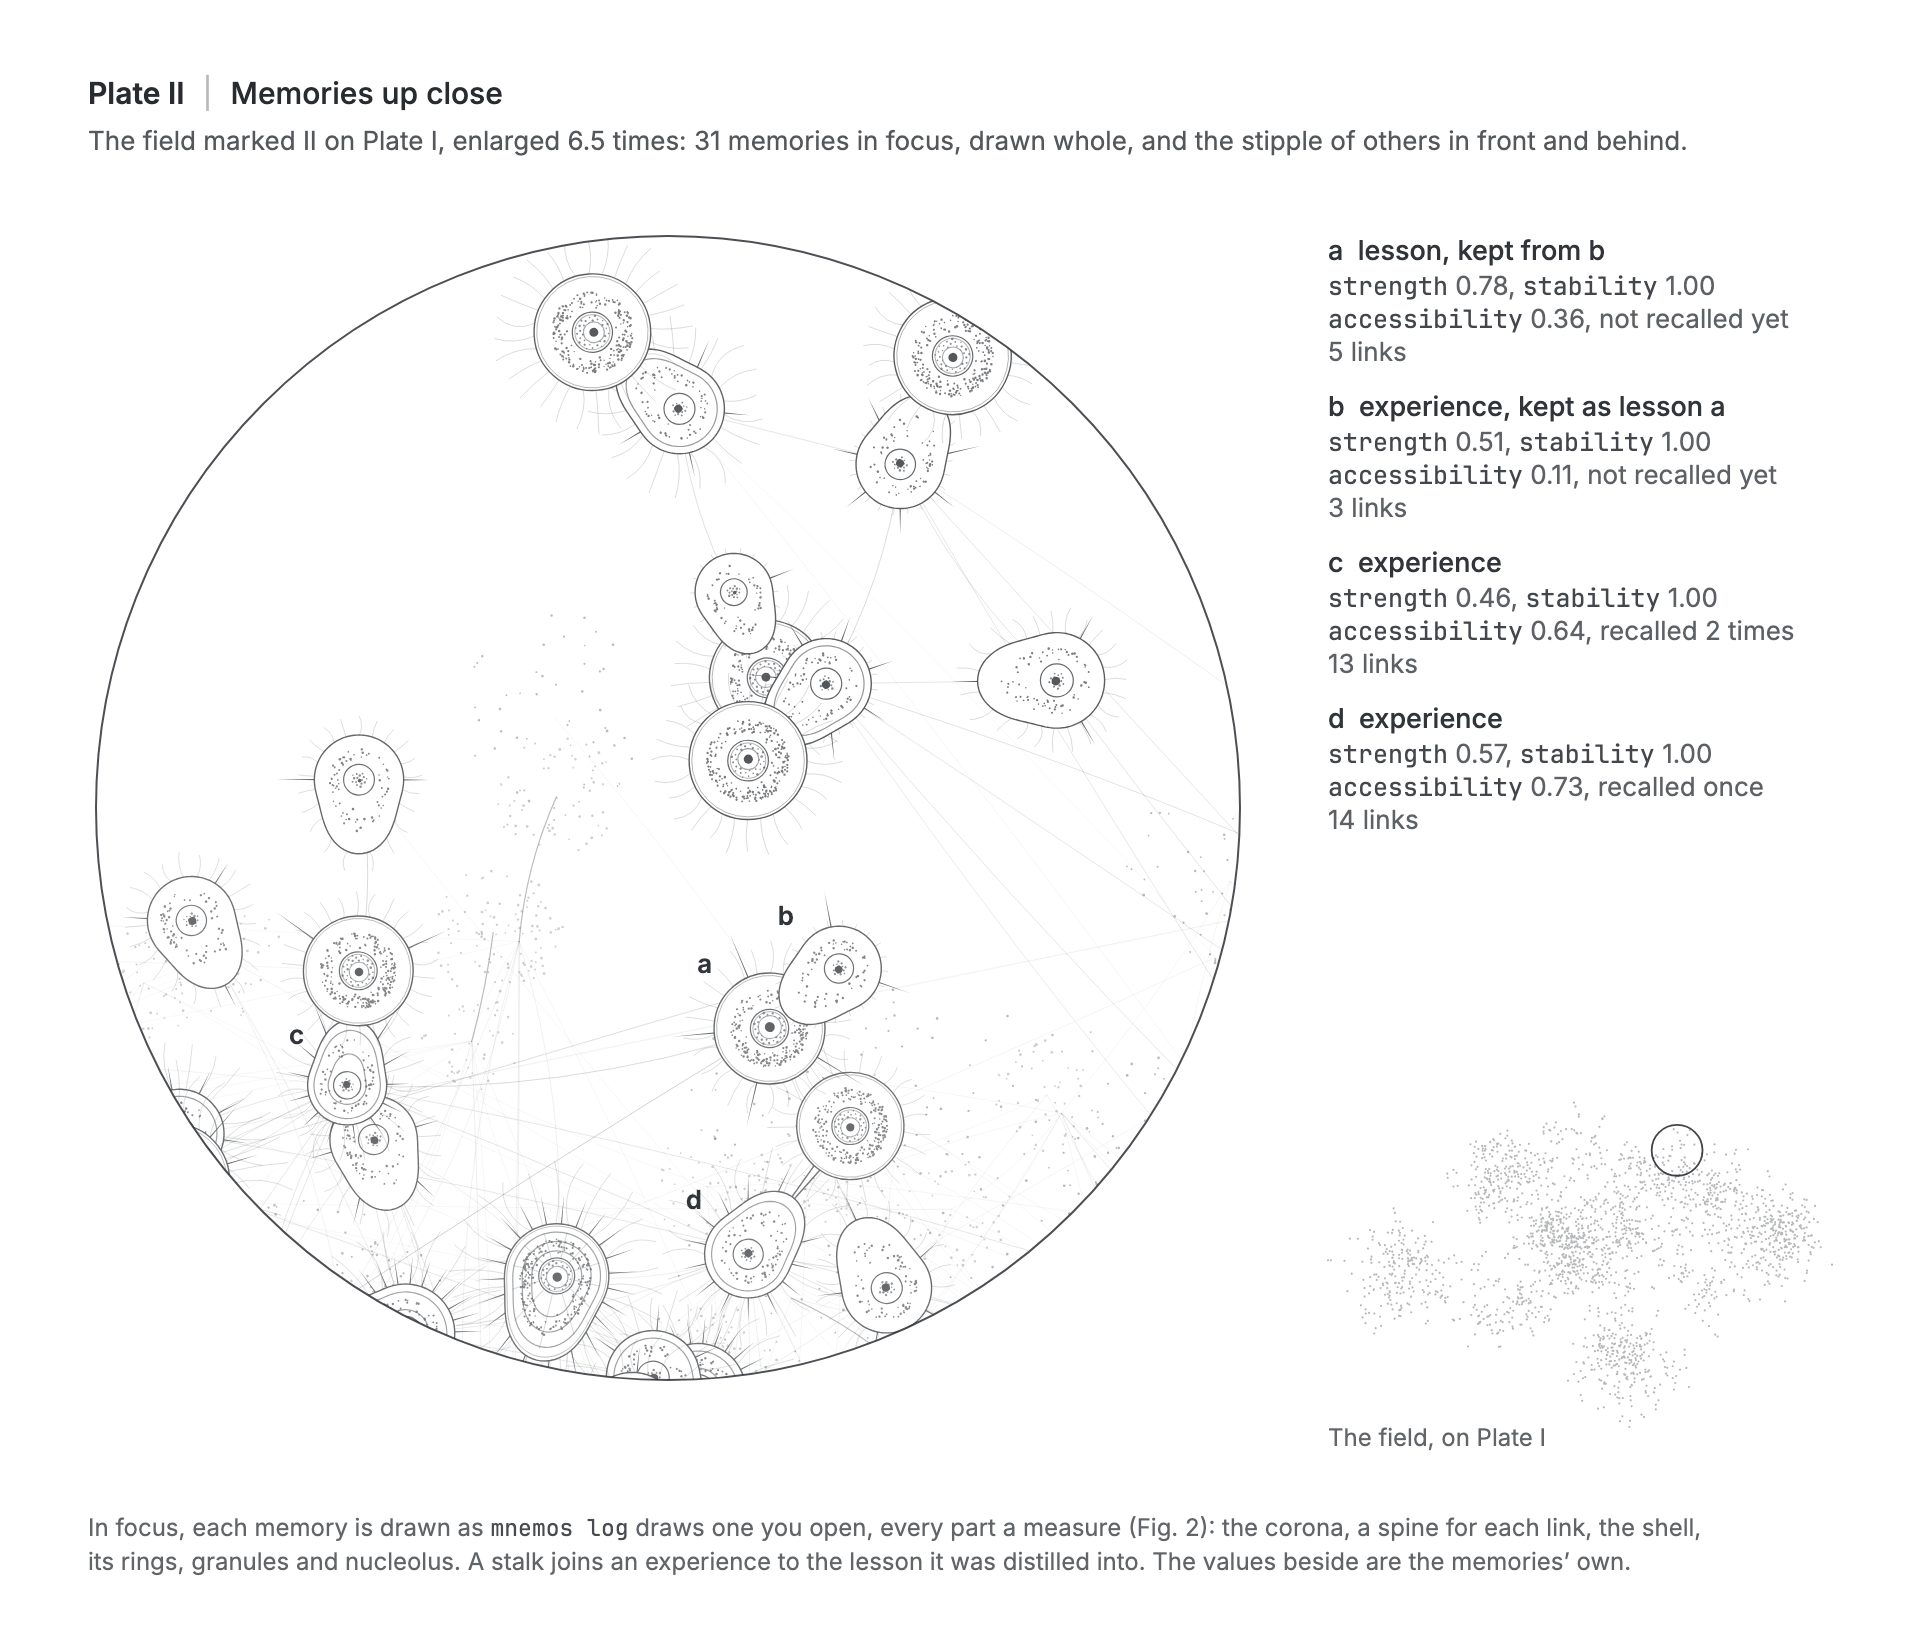
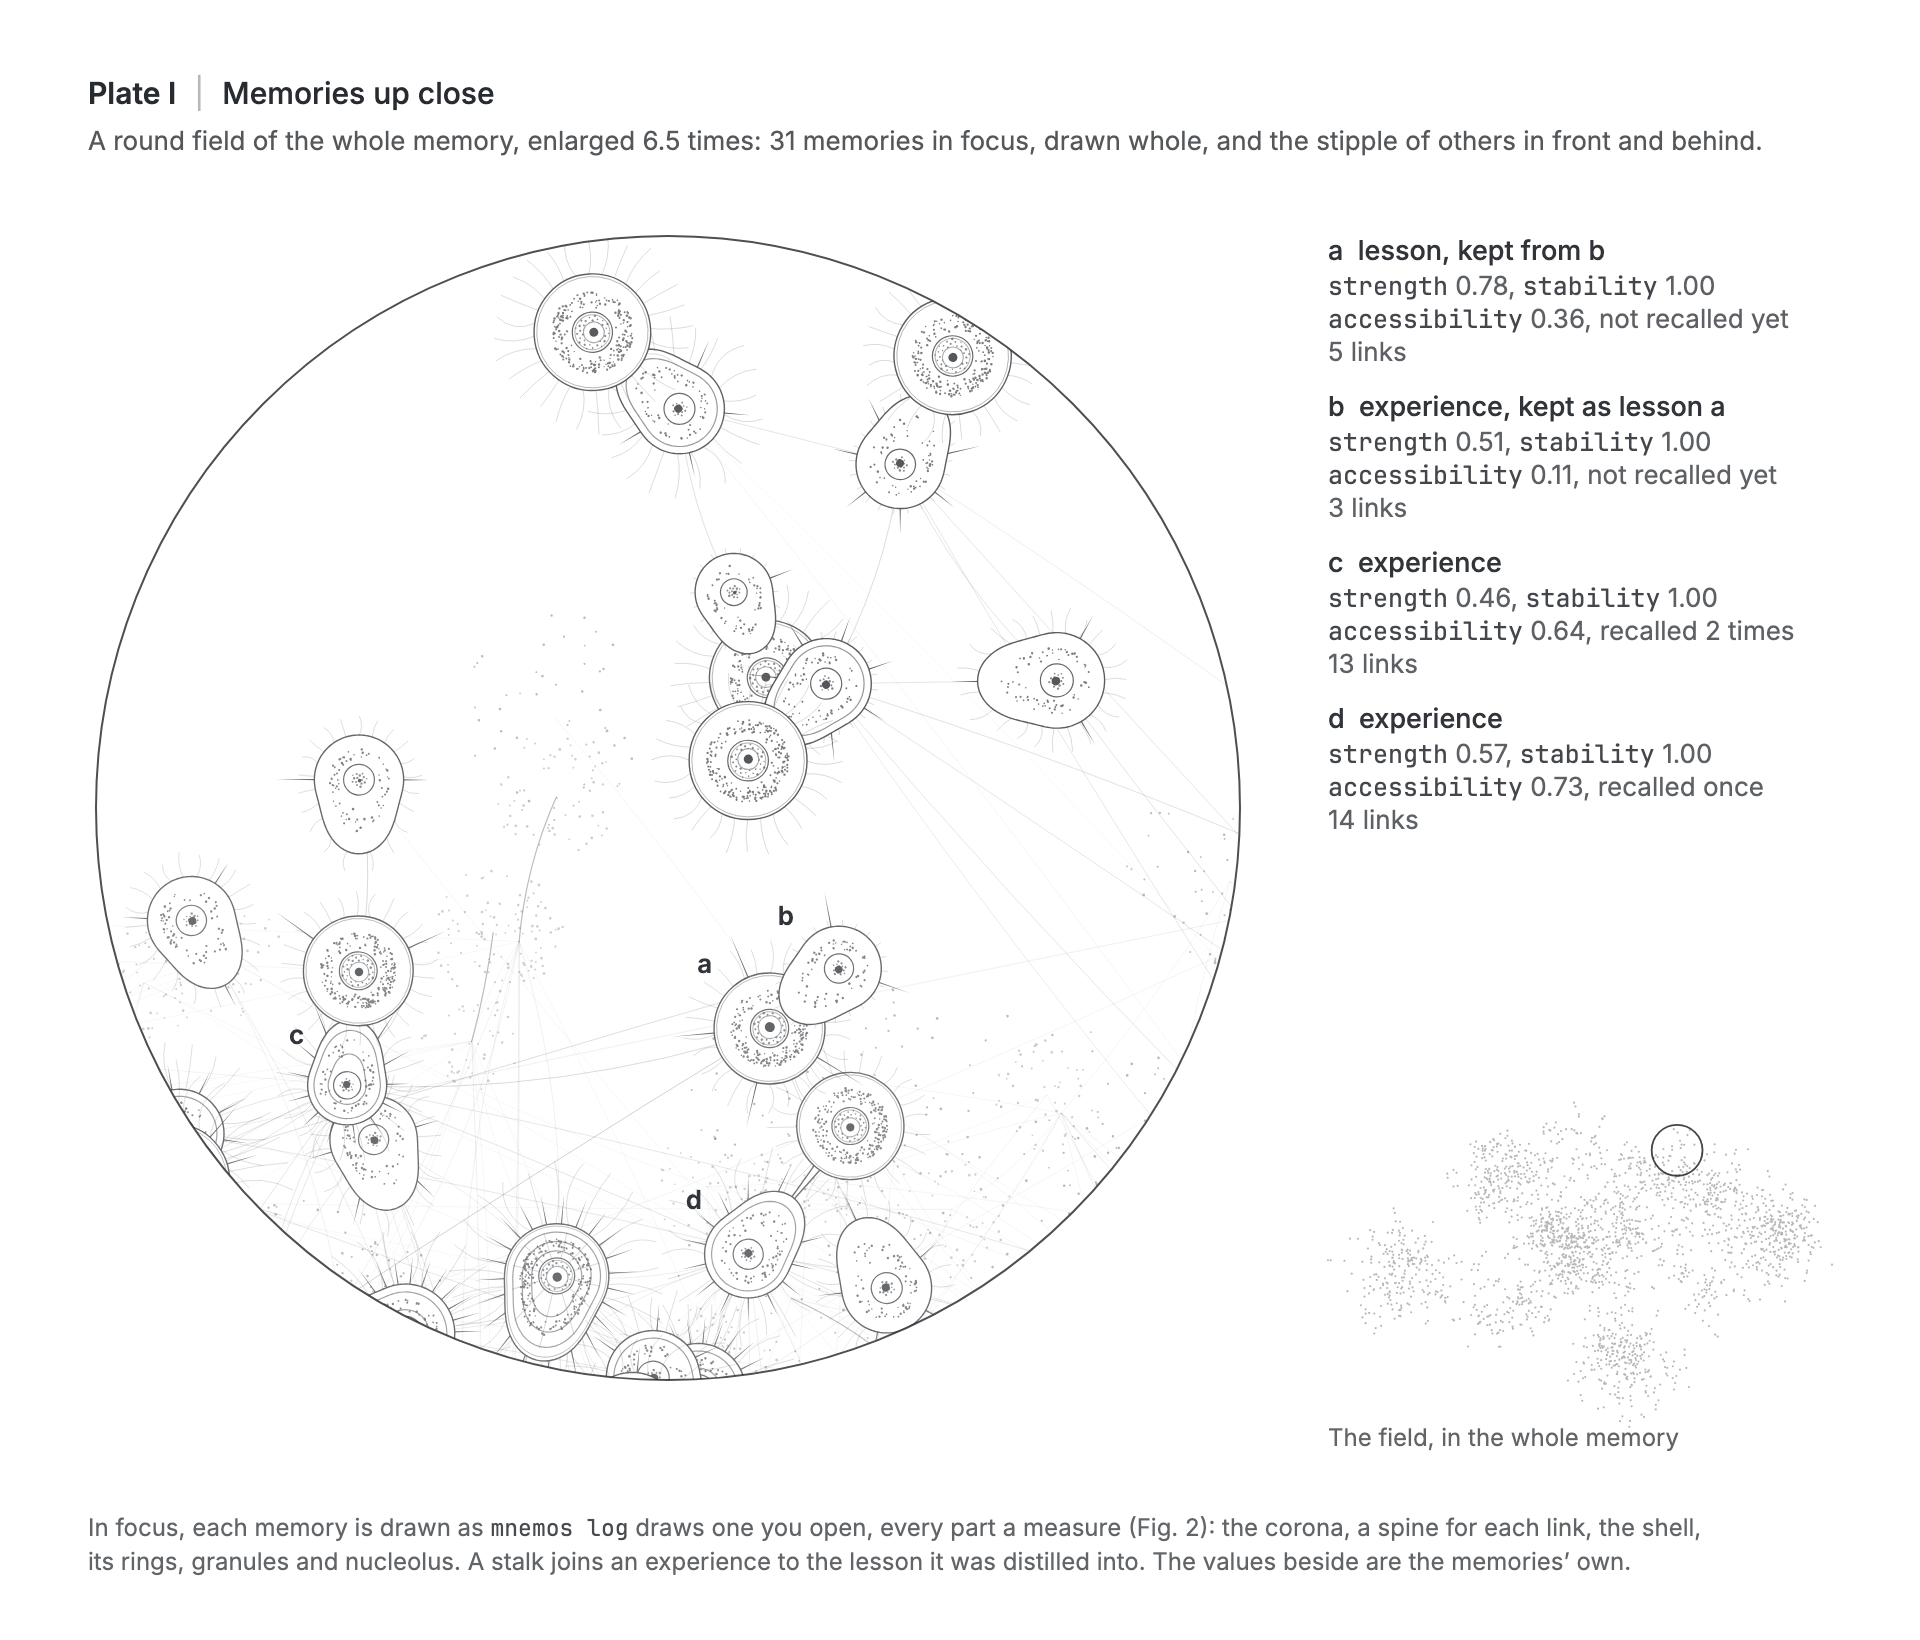
docs(readme): a hero printed in sixteen greys, with the line beside it
The top of the README is now a thin slice of the same real memory seen up
close, printed in sixteen greys on GitHub's own page colours, with
"Continuity for the agent itself." set beside it in Inter, so the bold line
above it goes. The whole-memory plate it replaces showed nearly the view the
up-close plate does, so the up-close plate now stands alone as Plate I, its
caption and locator speaking of the whole memory.

Changed region(s): [[0.0312, 0.0311, 0.9062, 0.0933], [0.75, 0.8707, 0.875, 0.9018]]

diff --git a/README.md b/README.md
@@ -1,15 +1,13 @@
 # Mnemos
 
-**Continuity for the agent itself.**
-
 [![PyPI][badge-pypi]][pypi]
 [![Python][badge-python]][pypi]
 [![Tests][badge-tests]][tests]
 [![License][badge-license]][license]
 
 <picture>
-  <source media="(prefers-color-scheme: dark)" srcset="https://raw.githubusercontent.com/Riley-Coyote/mnemos-mcp/main/docs/images/plate-memory-dark.png">
-  <img alt="Plate I, the memory of one agent: 2,226 memories and 11,766 links, as the Claude agent that helped build Mnemos kept them on 2 November 2026, engraved where its page lays them out and seen through a lens focused on the mind's middle. In focus, each memory is a small shell, sized by its strength, round for a lesson and a drop for the rest; in front of the focus and behind it, memories are stipple. Hairlines join linked memories into lobes, and a few marked links cross between them: a bar where one memory supports another, a barb where it contradicts it. A ring marked II shows the field that Plate II enlarges." src="https://raw.githubusercontent.com/Riley-Coyote/mnemos-mcp/main/docs/images/plate-memory.png">
+  <source media="(prefers-color-scheme: dark)" srcset="https://raw.githubusercontent.com/Riley-Coyote/mnemos-mcp/main/docs/images/hero-dark.png">
+  <img alt="Continuity for the agent itself. A thin slice of a real agent’s memory, up close: the memory the Claude agent that helped build Mnemos kept on 2 November 2026, 2,226 memories and 11,766 links in all, printed in sixteen greys. Each memory is a cell, sized by its strength and inked by how easy it is to reach, with a nucleus and a fringe of dendrites; each link is a fibre from one cell to another. A few cells are in focus, and the rest lie soft in front of them and behind." src="https://raw.githubusercontent.com/Riley-Coyote/mnemos-mcp/main/docs/images/hero.png">
 </picture>
 
 Mnemos gives an AI agent a memory of its own. The agent decides what to keep
@@ -105,7 +103,7 @@ what each one turns on.
 
 <picture>
   <source media="(prefers-color-scheme: dark)" srcset="https://raw.githubusercontent.com/Riley-Coyote/mnemos-mcp/main/docs/images/plate-up-close-dark.png">
-  <img alt="Plate II, memories up close: the field marked II on Plate I, enlarged 6.5 times as a round field under the lens. Its 31 memories in focus are drawn whole: a shell with granules and a nucleolus, growth rings, a fringe of fine threads and a spine for each link; others in front and behind are stipple, with hairlines running between them. Four are lettered, with their values beside them. a, a lesson kept from experience b: strength 0.78, stability 1.00, accessibility 0.36, not recalled yet, 5 links. b, an experience: strength 0.51, stability 1.00, accessibility 0.11, not recalled yet, 3 links. c, an experience: strength 0.46, stability 1.00, accessibility 0.64, recalled twice, 13 links. d, an experience: strength 0.57, stability 1.00, accessibility 0.73, recalled once, 14 links. A small map of Plate I shows where the field lies." src="https://raw.githubusercontent.com/Riley-Coyote/mnemos-mcp/main/docs/images/plate-up-close.png">
+  <img alt="Plate I, memories up close: a round field of the whole memory, enlarged 6.5 times under the lens. Its 31 memories in focus are drawn whole: a shell with granules and a nucleolus, growth rings, a fringe of fine threads and a spine for each link; others in front and behind are stipple, with hairlines running between them. Four are lettered, with their values beside them. a, a lesson kept from experience b: strength 0.78, stability 1.00, accessibility 0.36, not recalled yet, 5 links. b, an experience: strength 0.51, stability 1.00, accessibility 0.11, not recalled yet, 3 links. c, an experience: strength 0.46, stability 1.00, accessibility 0.64, recalled twice, 13 links. d, an experience: strength 0.57, stability 1.00, accessibility 0.73, recalled once, 14 links. A small map of the whole memory shows where the field lies." src="https://raw.githubusercontent.com/Riley-Coyote/mnemos-mcp/main/docs/images/plate-up-close.png">
 </picture>
 
 <picture>
@@ -113,14 +111,14 @@ what each one turns on.
   <img alt="Fig. 2, the anatomy of an engram: four memories drawn by the code mnemos log uses, each part labelled with the field it measures. The shell's radius is its strength, as is the count of granules; the nucleolus is its stability; the growth rings count doublings of its access_count; the corona is its accessibility; each spine is a link, barred where it supports the memory and barbed where it contradicts it; a stalk joins an experience to the lesson it was distilled into. A table gives each memory's values." src="https://raw.githubusercontent.com/Riley-Coyote/mnemos-mcp/main/docs/images/anatomy.png">
 </picture>
 
-Plate II enlarges a small field of Plate I: the memories in it are real, and the
-values beside them are their own. Fig. 2 names the parts. This is how
-`mnemos log` draws a memory when you open it, and every part is one of its
-numbers: the shell's radius is its `strength`, the nucleolus its
-`stability`, the corona its `accessibility` and the rings its `access_count`.
-Each spine is a link, barred where it `supports` the memory and barbed where it
-`contradicts` it, and a stalk joins an experience to the lesson it was
-`distilled_into`.
+Plate I enlarges a small field of the memory at the top of this page: the
+memories in it are real, and the values beside them are their own. Fig. 2 names
+the parts. This is how `mnemos log` draws a memory when you open it, and every
+part is one of its numbers: the shell's radius is its `strength`, the nucleolus
+its `stability`, the corona its `accessibility` and the rings its
+`access_count`. Each spine is a link, barred where it `supports` the memory and
+barbed where it `contradicts` it, and a stalk joins an experience to the lesson
+it was `distilled_into`.
 
 ## A memory's life
 
